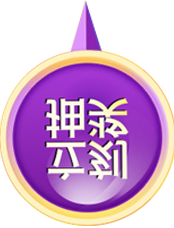
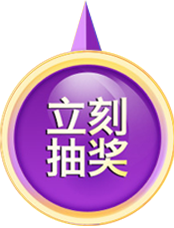
lottery

diff --git a/wafuli/templates/activity_recommend.html b/wafuli/templates/activity_recommend.html
@@ -22,9 +22,9 @@
     <![endif]-->
 <script>
 var data = '<table class="mytable" id="tb1"><tr class="mytable1">'+
-'<td style="width: 150px;">提交时间</td><td style="width: 250px;">活动主题</td><td style="width: 25%;">活动链接</td>'+
+'<td style="width: 150px;">提交时间</td><td style="width: 250px;">活动主题</td><td style="width: 250px;">活动链接</td>'+
 '<td style="width: 220px;">推荐理由</td><td style="width: 100px;">审核结果</td>'+
-'</tr>[data]<tr><td>{date}</td><td>{title}</td><td style="width: 250px;word-wrap:break-word;" >{url}</td><td>{reason}</td>'+
+'</tr>[data]<tr><td>{date}</td><td>{title}</td><td>{url}</td><td>{reason}</td>'+
 '<td class="mycheck">{result}</td></tr>[/data]</table>';
 var data2 = '<table class="mytable3" id="tb2"><tr class="mytable1">'+
 '<td>用户名</td><td>通过审核数</td><td>当前排名（月度）</td><td>奖励现金（元）</td>'+

diff --git a/static/js/rotate.js b/static/js/rotate.js
@@ -68,8 +68,11 @@ $(function (){
 					itemid = parseInt(itemid)
 					lottery(itemid);
 				}
+				else if(ret.code==-2){
+					$(".popup5").display();
+				}
 				else{
-					alert(ret.res_msg);
+					alert(u"参数错误，请联系电话客服！")
 				}
 			},
 			error:function(){

diff --git a/wafuli/activity.py b/wafuli/activity.py
@@ -14,6 +14,7 @@ from django.core.paginator import Paginator, PageNotAnInteger, EmptyPage
 from wafuli_admin.models import RecommendRank
 import datetime
 from wafuli.tools import weighted_random
+from account.transaction import charge_score, charge_money
 logger = logging.getLogger('wafuli')
 def recommend(request, id=None):
     if request.method == "POST":
@@ -157,6 +158,7 @@ def lottery(request):
     return render(request, 'activity_lottery.html',context)
 
 def get_lottery(request):
+    user = request.user
     if request.method != "POST" or not request.is_ajax():
         logger.warning("Experience refused no-ajax request!!!")
         raise Http404
@@ -165,8 +167,29 @@ def get_lottery(request):
         result['code'] = -1
         result['url'] = reverse('login') + "?next=" + reverse('activity_lottery')
         return JsonResponse(result)
-    award_list = [(1, 66.67), (2, 22.22), (3, 7.41), (4, 2), (5, 2), (6, 2),]
+    if user.scores < 10:
+        result['code'] = -2
+        return JsonResponse(result)
+    trans = charge_score(user, '1', 10, u"积分抽奖")
+    if not trans:
+        result['code'] = -3
+        return JsonResponse(result)
+    event = UserEvent.objects.create(user=request.user, event_type='7', audit_state='1')
+    award_list = [(1, 61), (2, 30), (3, 6), (4, 2), (5, 1), (6, 0),]
     itemid = weighted_random(award_list)
+    translist = None
+    if itemid == 1:
+        pass
+    elif itemid == 2:
+        translist = charge_score(user, '0', 10, u'抽奖获奖')
+    elif itemid == 4:
+        translist = charge_money(user, '0', 0.8, u'抽奖获奖')
+        if translist:
+            translist.user_event = event
+            translist.save(update_fields=['user_event'])
+        else:
+            result['code'] = -4
+            result['res_msg'] = "记账失败！"
     result['code'] = 0
     result['itemid'] = itemid
     return JsonResponse(result)

diff --git a/account/views.py b/account/views.py
@@ -679,7 +679,7 @@ def withdraw(request):
             result['code'] = -1
             result['res_msg'] = u'参数不合法！'
             return JsonResponse(result)
-        if withdraw_amount < 10 or withdraw_amount > user.balance:
+        if withdraw_amount < 10 or withdraw_amount > float(user.balance)+0.01:
             result['code'] = -1
             result['res_msg'] = u'提现金额错误！'
             return JsonResponse(result)
@@ -901,7 +901,7 @@ def invite(request):
     inviter = request.user
     if request.method == 'GET':
         withdraw_thismonth = UserEvent.objects.filter(user__inviter=inviter, event_type='2',
-                    audit_state='0',time__year=ttime.localtime()[0],time__month=ttime.localtime()[1]).\
+                    audit_state='0',audit_time__year=ttime.localtime()[0],audit_time__month=ttime.localtime()[1]).\
                     aggregate(sumofwith=Sum('invest_amount'))
         acc_count = inviter.invitees.count()
         acc_with_count = UserEvent.objects.filter(user__inviter=inviter, event_type='2',

diff --git a/wafuli_admin/management/commands/invite_charge.py b/wafuli_admin/management/commands/invite_charge.py
@@ -22,7 +22,7 @@ class Command(BaseCommand):
         inviters = MyUser.objects.all()
         for inviter in inviters:
             invite_lastmonth = UserEvent.objects.filter(user__inviter=inviter, event_type='2',
-                        audit_state='0',time__year=year,time__month=month,audit_time__year=year,audit_time__month=month).\
+                        audit_state='0',audit_time__year=year,audit_time__month=month).\
                         aggregate(sumofwith=Sum('invest_amount'))
             award_lastmonth = float(invite_lastmonth.get('sumofwith') or 0)*settings.AWARD_RATE
             award_lastmonth = ("%.2f" % award_lastmonth)

diff --git a/wafuli/data.py b/wafuli/data.py
@@ -90,8 +90,9 @@ USER_EVENT_TYPE = (
     ('2', u'提现审核'),
     ('3', u'商品兑换审核'),
     ('4', u'优惠券兑换审核'),
-    ('5', u'邀请奖励审核'),
-    ('6', u'推荐福利审核'),
+    ('5', u'邀请奖励转余额'),
+    ('6', u'福利推荐审核'),
+    ('7', u'积分抽奖'),
 )
 ADMIN_EVENT_TYPE = (
     ('1', u'返现审核'),
@@ -102,7 +103,8 @@ ADMIN_EVENT_TYPE = (
     ('6', u'更改用户状态'),
     ('7', u'发放优惠券'),
     ('8', u'积分兑换审核'),
-    ('9', u'其他'),
+    ('9', u'福利推荐审核'),
+    ('10', u'其他'),
 )
 COUPON_TYPE = (
     ('0', u'现金券'),

diff --git a/wafuli_admin/activity.py b/wafuli_admin/activity.py
@@ -98,7 +98,7 @@ def admin_recommend_return(request):
         
         
         if res['code'] == 0:
-            admin_event = AdminEvent.objects.create(admin_user=admin_user, custom_user=event_user, event_type='1')
+            admin_event = AdminEvent.objects.create(admin_user=admin_user, custom_user=event_user, event_type='9')
             if translist:
                 translist.admin_event = admin_event
                 translist.save(update_fields=['admin_event'])

diff --git a/account/transaction.py b/account/transaction.py
@@ -24,7 +24,7 @@ def charge_money(user, type, amount, reason):
     if type == '0':
         user.balance += amount
         user.accu_income += amount
-    elif user.balance < amount:
+    elif user.balance < amount - Decimal(0.001):
         logger.info('I:The account balance is not enough!')
         return None
     else:
